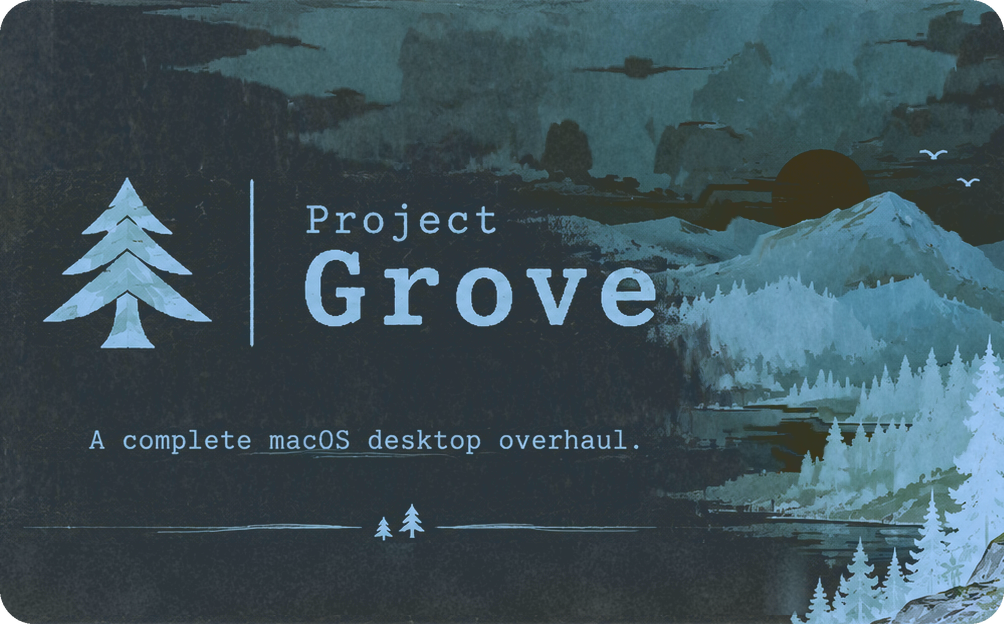
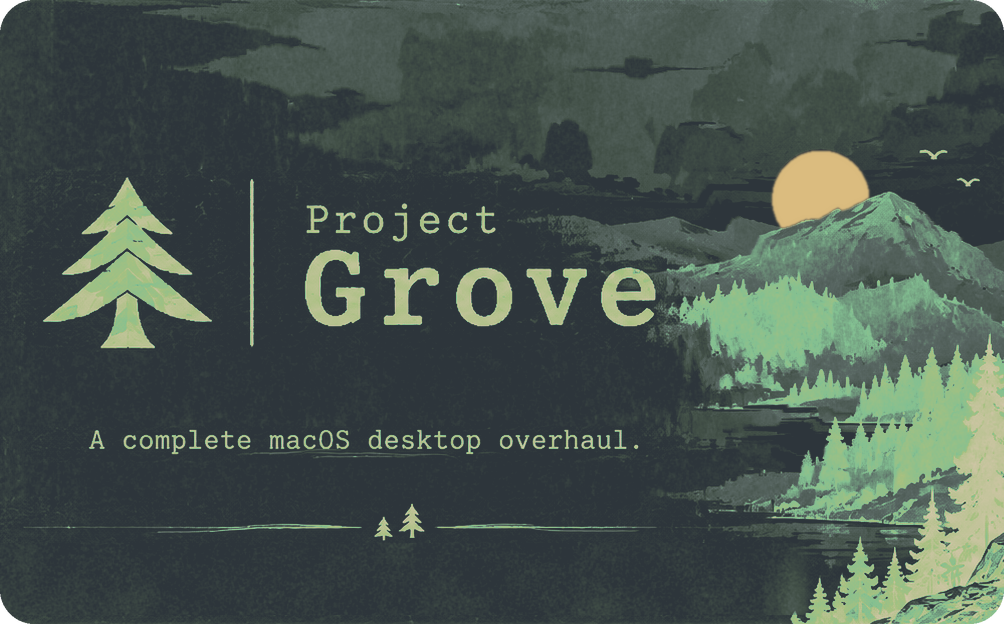
Recolor the Grove image from the theme: green ramp on bg0, yellow sun

diff --git a/grove-dotfiles/docs/specs/2026-11-09-grove-fastfetch-design.md b/grove-dotfiles/docs/specs/2026-11-09-grove-fastfetch-design.md
@@ -20,9 +20,9 @@ The summary shown in every new terminal window keeps its look (a boxed "Grove" p
 | --- | --- | --- |
 | Tool | **fastfetch** replaces macchina | It can show images in Ghostty and color its bars; macchina can do neither. |
 | Image | The banner reframed: logo to the landscape's rock, features row removed, made taller (aspect 1.61), rounded corners, 1004 × 624 PNG | Approved by the user after the spike. |
-| Image tones | **Everforest night**: light and dark swapped, the paper shifted onto bg0 `#2D353B`, the darkest ink onto fg `#D3C6AA`; other colors keep their tint relative to the paper (so the sun becomes a dark disc) | Chosen by the user over a plain negative and an unshifted swap. It blends into the terminal. |
+| Image tones | **Everforest night**, recolored from the theme: lightness picks a color on a palette ramp (paper bg0 → bg_green → fill → aqua → green → darkest ink fg), and the sun is the theme's yellow, drawn as a full disc behind the peak | Chosen by the user: first the swapped version, then "more green, following the theme colors". It blends into the terminal. |
 | Image source | The PNG itself is committed (`config/fastfetch/grove.png`, ~1 MB) | It's derived from the banner the user made for the public README. The tool that made it stays private, like the other dev tools (see the private-files rule). |
-| Image colors | The image is derived from the banner's paint, so it is **exempt** from the palette rule (its paper is bg0, but the paint keeps its own shades) | The palette rule covers config colors. Every color in the fastfetch config still comes from the palette (tested). |
+| Image colors | The image is derived from the banner's paint, so it is **exempt** from the palette rule (made only of palette colors, but blended between them, so its pixels aren't exact palette hexes) | The palette rule covers config colors. Every color in the fastfetch config still comes from the palette (tested). |
 | Size | Image 76 columns × 22 rows (the box's height); the whole summary needs ~140 columns | It matches the box; the width follows from the image's shape. |
 | Narrow windows | ≥ 140 columns: image (1 + 76 + 3 + the 58-column box = 138). 125–139: today's text art (1 + 61 + 3 + 58 = 123). < 125: box only | Never wraps or overlaps. |
 | Terminal.app | Text art (it can't show images) | Same as today. |
